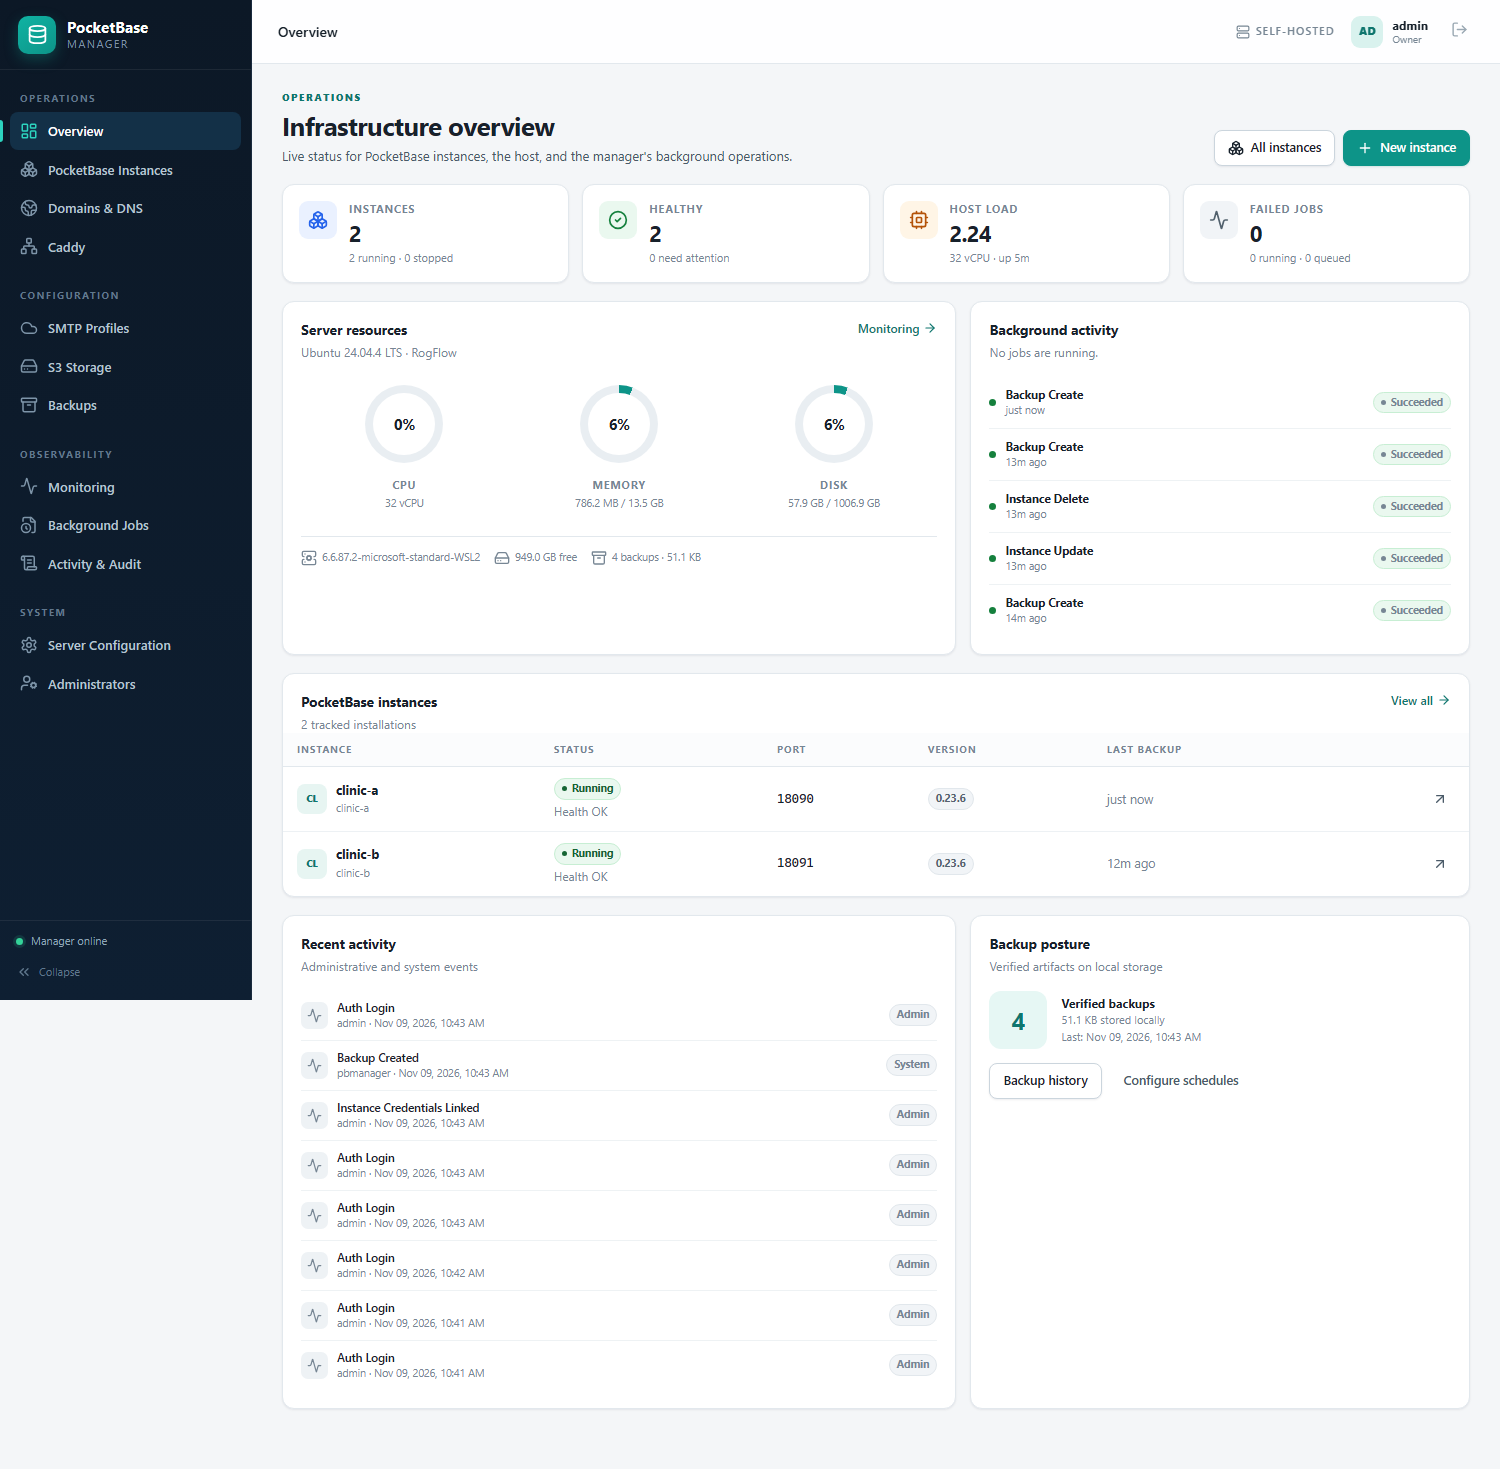
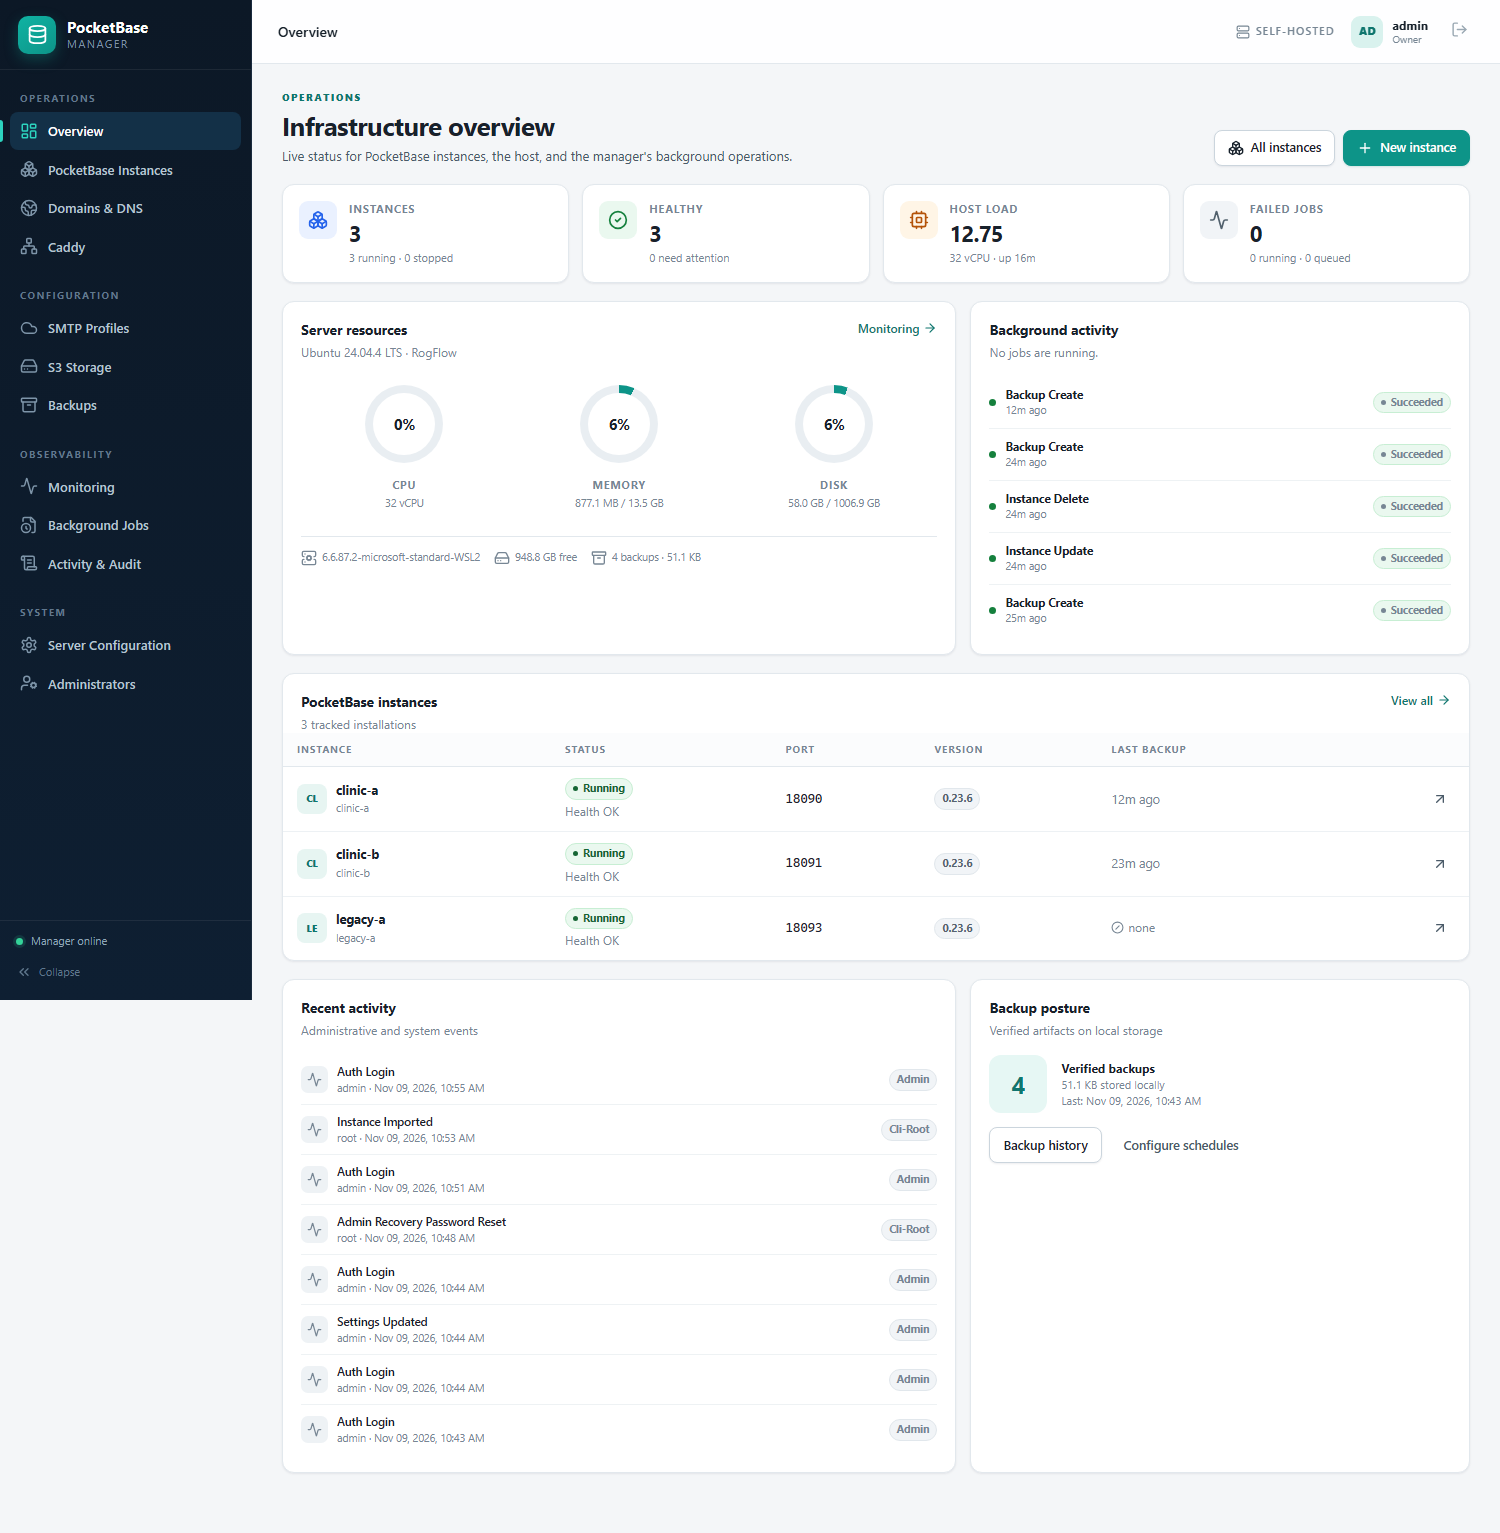
Record unmanaged-instance import evidence and refresh overview screenshots

diff --git a/docs/TESTING.md b/docs/TESTING.md
@@ -113,6 +113,44 @@ Observed:
 - No service restart, file rewrite, chown, Caddy, or DNS change occurred during import.
 - Monitor later reported `running / healthy`.
 
+## Unmanaged existing installation import
+
+`clinic-a` was already present, but it had originally been created by an earlier test manager, so it was not independent evidence. A separate installation, `legacy-a`, was created manually outside the manager:
+
+- system user `legacy-pb`
+- directory `/srv/legacy-a`
+- binary `/srv/legacy-a/pocketbase` (42 MB, official 0.23.6 binary)
+- data `/srv/legacy-a/pb_data`
+- port `18093`
+- unit `/etc/systemd/system/legacy-a.service` with **no pbmanager marker**
+
+Import command:
+
+```bash
+pbmanager --config /etc/pbmanager/config.json instances import \
+  --name legacy-a --hostname legacy-a \
+  --base-dir /srv/legacy-a \
+  --binary /srv/legacy-a/pocketbase \
+  --data-dir /srv/legacy-a/pb_data \
+  --port 18093 --service legacy-a \
+  --service-file /etc/systemd/system/legacy-a.service \
+  --run-as legacy-pb --version 0.23.6
+```
+
+Before/after evidence:
+
[1 lines of base64/hex data omitted]
+- same `MainPID=581`
+- same `ActiveEnterTimestamp` (`10:53:51`)
+- same unit mtime and size
+- same binary mtime and size
+- zero `managed by pbmanager` markers in the unit
+- service still active; `http://127.0.0.1:18093/api/health` still 200
+- manager inventory shows `legacy-a`, `managed:false`, `source:cli-import`
+- monitor later reported `running / healthy`
+
+This directly verifies that importing an installation the manager did not create performs no OS-level changes and does not restart or rewrite the app.
+
 ## Provisioning
 
 A new instance `clinic-b` was provisioned from the official PocketBase 0.23.6 archive via a local checksum-verified mirror:

diff --git a/README.md b/README.md
@@ -205,7 +205,8 @@ scripts                build, install, upgrade, uninstall, integration tests
 The complete system was built and exercised on Ubuntu 24.04 under WSL2 with real systemd, Caddy, and PocketBase 0.23.6:
 
 - HTTPS dashboard through Caddy at `https://manager.localhost`.
-- Imported existing PocketBase instance left running and unchanged.
+- Imported a genuinely unmanaged PocketBase installation (`legacy-a`): unit hash, inode metadata, PID, and service health were unchanged.
+- Imported an existing manager-created instance left running and unchanged.
 - New instance provisioned from a verified official 0.23.6 archive with generated PocketBase superuser.
 - Native backup bundle including uploads, restore with health verification, and upload recovery.
 - Manager `SIGKILL` mid-job; systemd restarted it and the interrupted job was recovered and completed.
